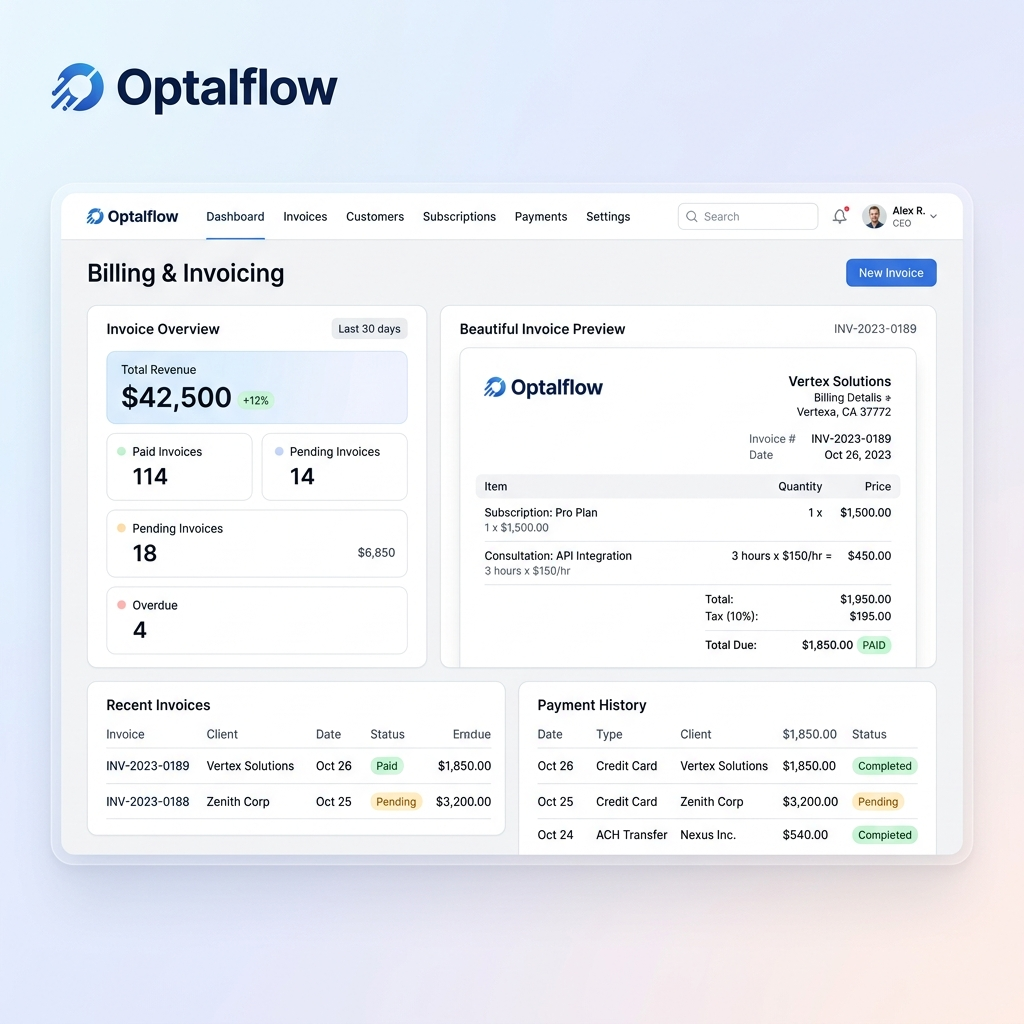
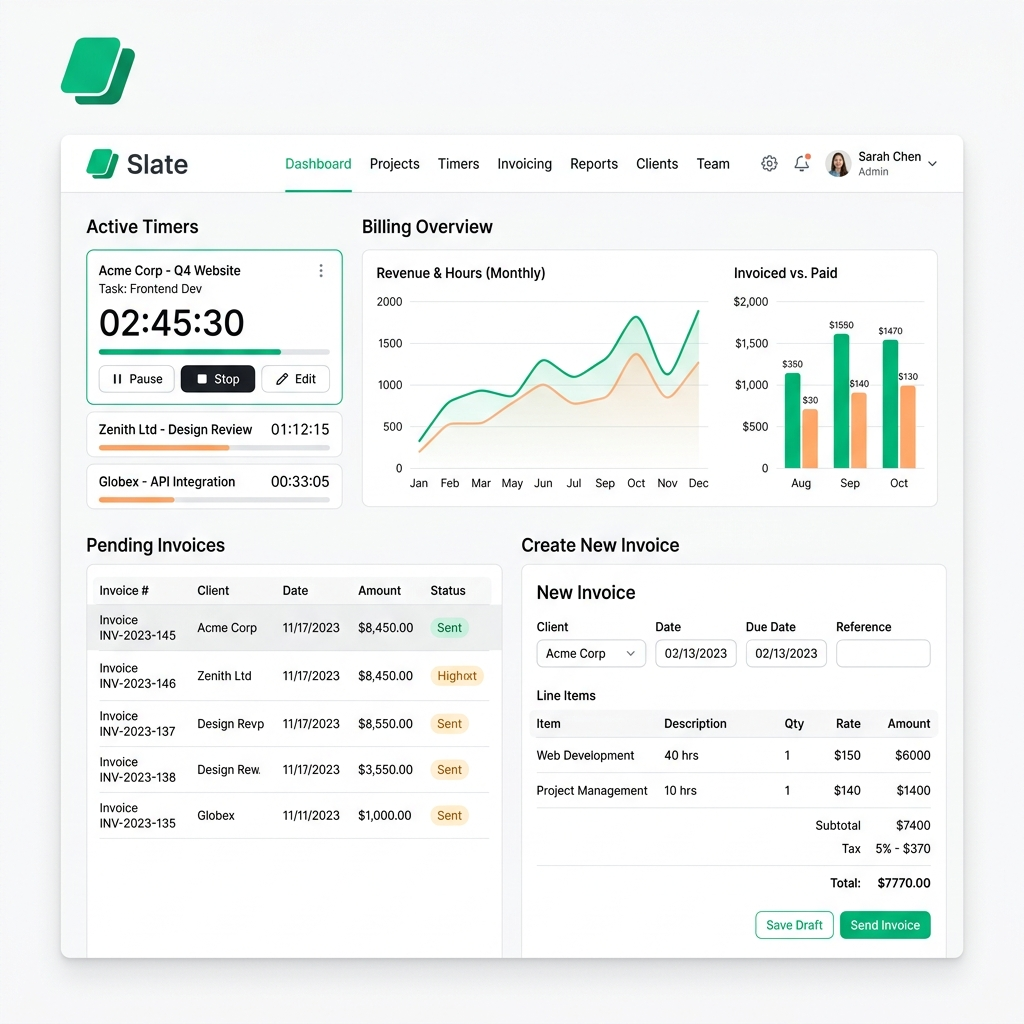
feat(marketing): redesign Orbit AI input flow on homepage, add progress simulation and fix SignUp redirect bug

diff --git a/src/pages/marketing/Home.jsx b/src/pages/marketing/Home.jsx
@@ -1,3 +1,4 @@
+import confetti from "canvas-confetti";
 import { useTranslation } from "react-i18next";
 import { useState, useEffect, useRef } from "react";
 import { useNavigate } from "react-router-dom";
@@ -490,8 +491,11 @@ const suites = [
 /* ------------------------------------------------------------------ */
 export default function Home() {
   const { t } = useTranslation();
+  
   const [aiPrompt, setAiPrompt] = useState("");
   const [showFirmAlert, setShowFirmAlert] = useState(false);
+  const [orbitStage, setOrbitStage] = useState("idle");
+  const [progressMsg, setProgressMsg] = useState("");
   const navigate = useNavigate();
   const { user } = useAuth();
 
@@ -504,17 +508,36 @@ export default function Home() {
       return;
     }
 
+    setOrbitStage("building");
+    const msgs = [
+      "Analyzing industry requirements...", 
+      "Synthesizing universal components...", 
+      "Structuring dynamic database...", 
+      "Finalizing your workspace..."
+    ];
+    let i = 0;
+    setProgressMsg(msgs[0]);
+    const intv = setInterval(() => {
+       i++;
+       if (i < msgs.length) {
+          setProgressMsg(msgs[i]);
+       } else {
+          clearInterval(intv);
+          setOrbitStage("success");
+          confetti({ particleCount: 150, spread: 80, origin: { y: 0.5 } });
+       }
+    }, 1500);
+  };
+
+  const handleAccessWorkspace = () => {
     localStorage.setItem("pendingOrbitPrompt", aiPrompt);
-    
     if (user) {
       navigate("/onboarding");
     } else {
       navigate("/signup");
     }
   };
-
-
-  return (
+return (
     <div className="overflow-x-hidden">
       <Helmet>
         <title>Slate - The Ultimate AI Workslate</title>
@@ -562,41 +585,88 @@ export default function Home() {
             </p>
           </FadeIn>
 
+          
           {/* AI Input Box */}
           <FadeIn delay="delay-250">
-            <div className="max-w-2xl mx-auto mb-10 relative z-20">
-              <form onSubmit={handleAiSubmit} className="relative group">
-                <div className="absolute -inset-1 bg-gradient-to-r from-emerald-400 to-orange-400 rounded-2xl blur opacity-20 group-hover:opacity-40 transition duration-1000 group-hover:duration-200"></div>
-                <div className="relative flex items-center bg-white border-2 border-slate-100 hover:border-emerald-100 rounded-2xl p-2 shadow-lg transition-all">
-                  <div className="pl-4 pr-2 text-slate-400 flex-shrink-0">
-                    <Sparkles className="w-6 h-6 text-emerald-500" />
+            <div className="max-w-3xl mx-auto mb-10 relative z-20">
+              
+              {orbitStage === "idle" && (
+                <form onSubmit={handleAiSubmit} className="relative group flex flex-col items-center">
+                  <div className="w-full relative">
+                    <div className="absolute -inset-1 bg-gradient-to-r from-emerald-400 to-orange-400 rounded-3xl blur opacity-30 group-hover:opacity-60 transition duration-1000 group-hover:duration-200"></div>
+                    <div className="relative bg-white border border-slate-100 hover:border-emerald-100 rounded-3xl p-6 shadow-2xl transition-all text-left flex flex-col">
+                      <div className="flex items-center gap-2 mb-4">
+                        <Sparkles className="w-6 h-6 text-emerald-500" />
+                        <span className="font-bold text-slate-700 text-lg">Orbit AI Builder</span>
+                      </div>
+                      <textarea
+                        value={aiPrompt}
+                        onChange={(e) => {
+                           setAiPrompt(e.target.value);
+                           setShowFirmAlert(false);
+                        }}
+                        placeholder="Can't find your industry template? Describe your dream workspace... (e.g. I need a CRM for my logistics company to manage delivery drivers and track client invoices.)"
+                        className="w-full h-32 bg-slate-50/50 rounded-2xl p-4 text-slate-800 placeholder-slate-400 font-medium text-lg border border-slate-100 focus:border-emerald-300 focus:ring-4 focus:ring-emerald-500/10 outline-none resize-none transition-all"
+                      />
+                      <div className="mt-6 flex flex-col sm:flex-row justify-between items-center gap-4">
+                        <span className="text-[11px] font-bold text-slate-400 uppercase tracking-widest hidden sm:block">Powered by Optavel Engine</span>
+                        <button
+                          type="submit"
+                          disabled={!aiPrompt.trim()}
+                          className="w-full sm:w-auto bg-gradient-to-r from-emerald-500 to-emerald-600 hover:from-emerald-600 hover:to-emerald-700 text-white px-10 py-4 rounded-xl font-black flex items-center justify-center gap-2 shadow-lg shadow-emerald-500/20 transition-all hover:-translate-y-0.5 disabled:opacity-50 disabled:hover:translate-y-0"
+                        >
+                          Build with Orbit
+                        </button>
+                      </div>
+                    </div>
                   </div>
-                  <input
-                    type="text"
-                    value={aiPrompt}
-                    onChange={(e) => {
-                       setAiPrompt(e.target.value);
-                       setShowFirmAlert(false);
-                    }}
-                    placeholder="Can't find your industry template? Describe your dream workspace..."
-                    className="flex-1 bg-transparent border-none outline-none text-slate-700 placeholder-slate-400 font-medium text-base sm:text-lg w-full"
-                  />
-                  <button
-                    type="submit"
-                    className="ml-2 bg-gradient-to-r from-emerald-500 to-emerald-600 hover:from-emerald-600 hover:to-emerald-700 text-white px-6 py-3 rounded-xl font-bold flex items-center gap-2 shadow-md transition-all flex-shrink-0"
-                  >
-                    Build <span className="hidden sm:inline">with Orbit AI</span>
-                  </button>
+                </form>
+              )}
+
+              {orbitStage === "building" && (
+                <div className="w-full relative">
+                  <div className="absolute -inset-1 bg-gradient-to-r from-emerald-400 to-orange-400 rounded-3xl blur opacity-40 animate-pulse"></div>
+                  <div className="relative bg-white rounded-3xl p-12 shadow-2xl border border-slate-100 flex flex-col items-center justify-center min-h-[300px]">
+                    <div className="w-16 h-16 bg-emerald-50 rounded-2xl flex items-center justify-center mb-6">
+                      <Sparkles className="w-8 h-8 text-emerald-500 animate-spin-slow" />
+                    </div>
+                    <div className="w-full max-w-md h-2 bg-slate-100 rounded-full overflow-hidden mb-4">
+                      <div className="h-full bg-gradient-to-r from-emerald-500 to-orange-400 rounded-full animate-progress" style={{width: '60%', animation: 'progress 6s ease-in-out forwards'}}></div>
+                    </div>
+                    <h3 className="font-bold text-slate-800 text-xl">{progressMsg}</h3>
+                    <p className="text-sm text-slate-500 font-medium mt-2">Please wait while Orbit constructs your platform...</p>
+                  </div>
                 </div>
-              </form>
+              )}
+
+              {orbitStage === "success" && (
+                <div className="w-full relative">
+                  <div className="absolute -inset-1 bg-gradient-to-r from-emerald-400 to-emerald-600 rounded-3xl blur opacity-20"></div>
+                  <div className="relative bg-white rounded-3xl p-12 shadow-2xl border border-emerald-100 flex flex-col items-center justify-center min-h-[300px]">
+                    <div className="w-20 h-20 bg-gradient-to-br from-emerald-400 to-emerald-600 rounded-full flex items-center justify-center text-white mb-6 shadow-lg shadow-emerald-500/30 transform scale-110">
+                      <svg className="w-10 h-10" fill="none" viewBox="0 0 24 24" stroke="currentColor" strokeWidth={3}><path strokeLinecap="round" strokeLinejoin="round" d="M5 13l4 4L19 7" /></svg>
+                    </div>
+                    <h3 className="text-3xl font-black text-slate-900 mb-3 tracking-tight">Workspace Assembled!</h3>
+                    <p className="text-slate-500 font-medium text-lg mb-8 text-center max-w-md">Your custom Slate environment has been pre-configured by Orbit AI.</p>
+                    <button
+                      onClick={handleAccessWorkspace}
+                      className="bg-slate-900 hover:bg-slate-800 text-white px-12 py-5 rounded-2xl font-black flex items-center justify-center gap-3 shadow-2xl hover:-translate-y-1 transition-all text-lg w-full sm:w-auto"
+                    >
+                      Access Your Workspace <ArrowRight className="w-6 h-6" />
+                    </button>
+                  </div>
+                </div>
+              )}
               
               {showFirmAlert && (
-                <div className="mt-4 bg-orange-50 border border-orange-200 text-orange-800 px-4 py-3 rounded-xl text-sm font-medium animate-in fade-in slide-in-from-top-2 shadow-sm">
+                <div className="mt-6 bg-orange-50 border border-orange-200 text-orange-800 px-6 py-4 rounded-xl text-sm font-medium shadow-sm flex items-center justify-center gap-3">
+                  <span className="w-2 h-2 rounded-full bg-orange-500"></span>
                   You already have an active firm! Head over to your Dashboard and use <strong className="text-orange-900">Orbit Board</strong> to create a new slate.
                 </div>
               )}
             </div>
           </FadeIn>
+
 
           {/* CTA buttons */}
           <FadeIn delay="delay-300">
@@ -613,7 +683,7 @@ export default function Home() {
 
           {/* Dashboard mockup */}
           <FadeIn delay="delay-500">
-            <div className="relative w-full max-w-6xl mx-auto rounded-2xl border border-slate-200/80 bg-slate-50 overflow-hidden flex items-center justify-center shadow-2xl">
+            <div className="relative w-full max-w-6xl mx-auto rounded-2xl border border-slate-200/80 bg-slate-50 overflow-hidden flex items-center justify-center">
               <img src="/images/hero_dashboard_ui.png" alt="Slate Dashboard Mockup" className="w-full h-auto object-contain" />
             </div>
           </FadeIn>

diff --git a/dev-dist/sw.js b/dev-dist/sw.js
@@ -78,7 +78,7 @@ define(['./workbox-970124e6'], (function (workbox) { 'use strict';
    */
   workbox.precacheAndRoute([{
     "url": "/index.html",
-    "revision": "0.7ai4p41pa1g"
+    "revision": "0.jolhg6pbch8"
   }], {});
   workbox.cleanupOutdatedCaches();
   workbox.registerRoute(new workbox.NavigationRoute(workbox.createHandlerBoundToURL("/index.html"), {

diff --git a/src/pages/OnboardingWizard.jsx b/src/pages/OnboardingWizard.jsx
@@ -64,7 +64,7 @@ export default function OnboardingWizard() {
     if (pendingPrompt) {
       setSetupMode('orbit');
       setOrbitPrompt(pendingPrompt);
-      setStep(2);
+      setStep(3); // Jump straight to Invite Team
       localStorage.removeItem('pendingOrbitPrompt');
     }
   }, []);

diff --git a/src/index.css b/src/index.css
@@ -280,4 +280,10 @@
     --color-surface-3: rgba(255, 255, 255, 0.08);
     --color-surface-4: rgba(255, 255, 255, 0.12);
   }
-}
+}
+
+
+@keyframes progress {
+  0% { width: 0%; }
+  100% { width: 100%; }
+}
